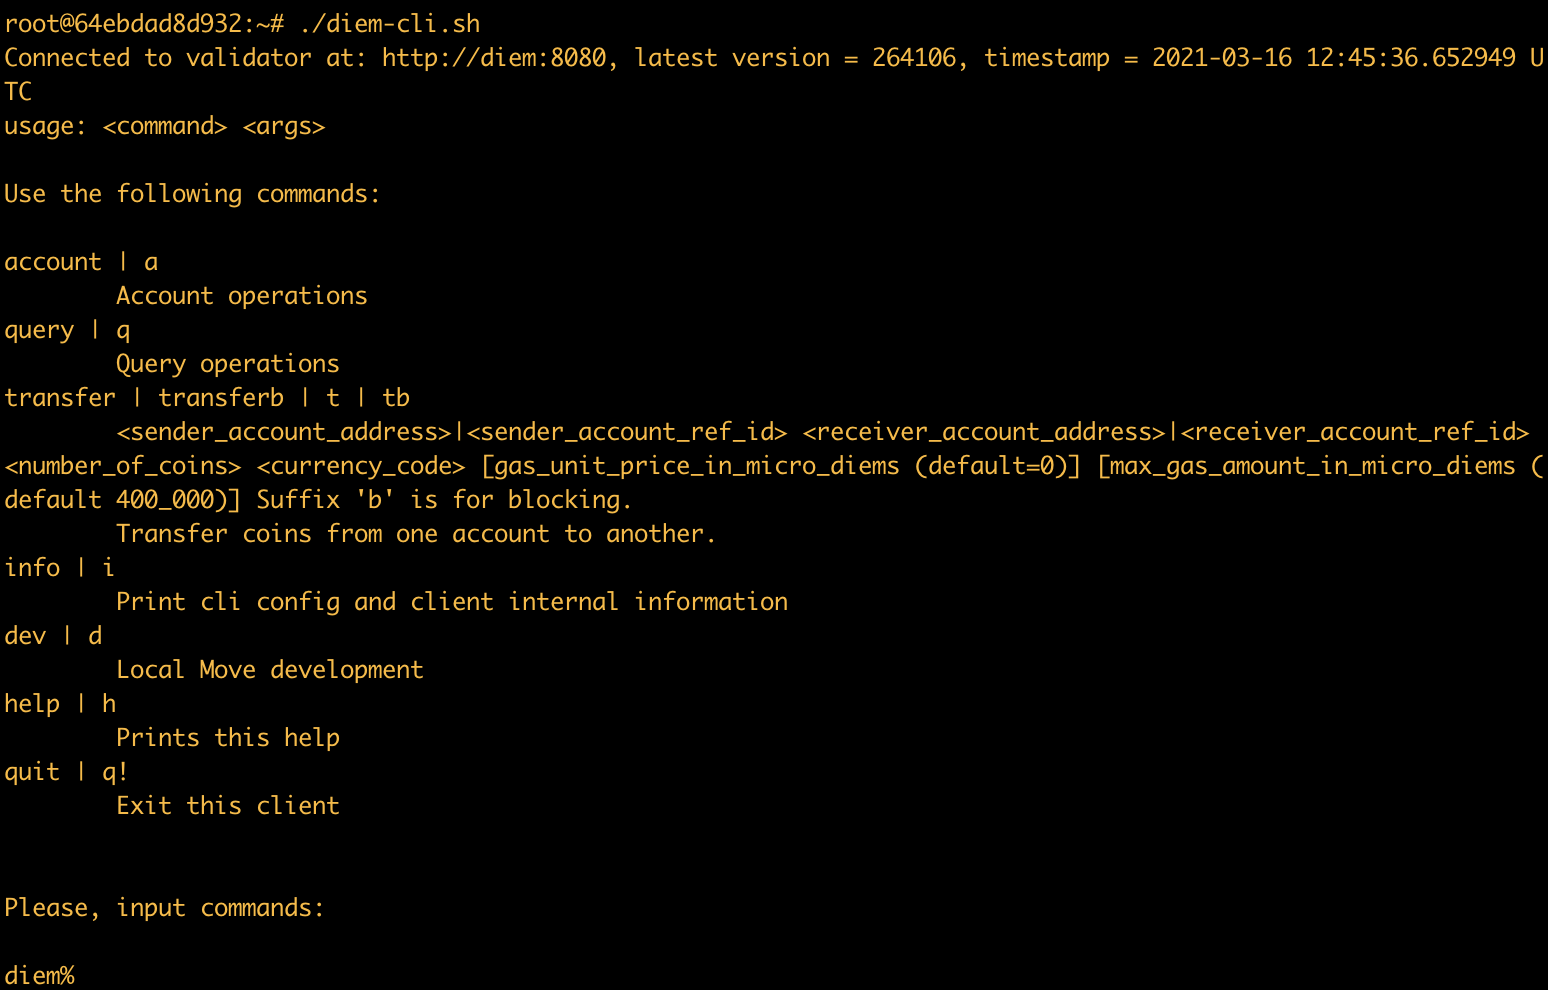
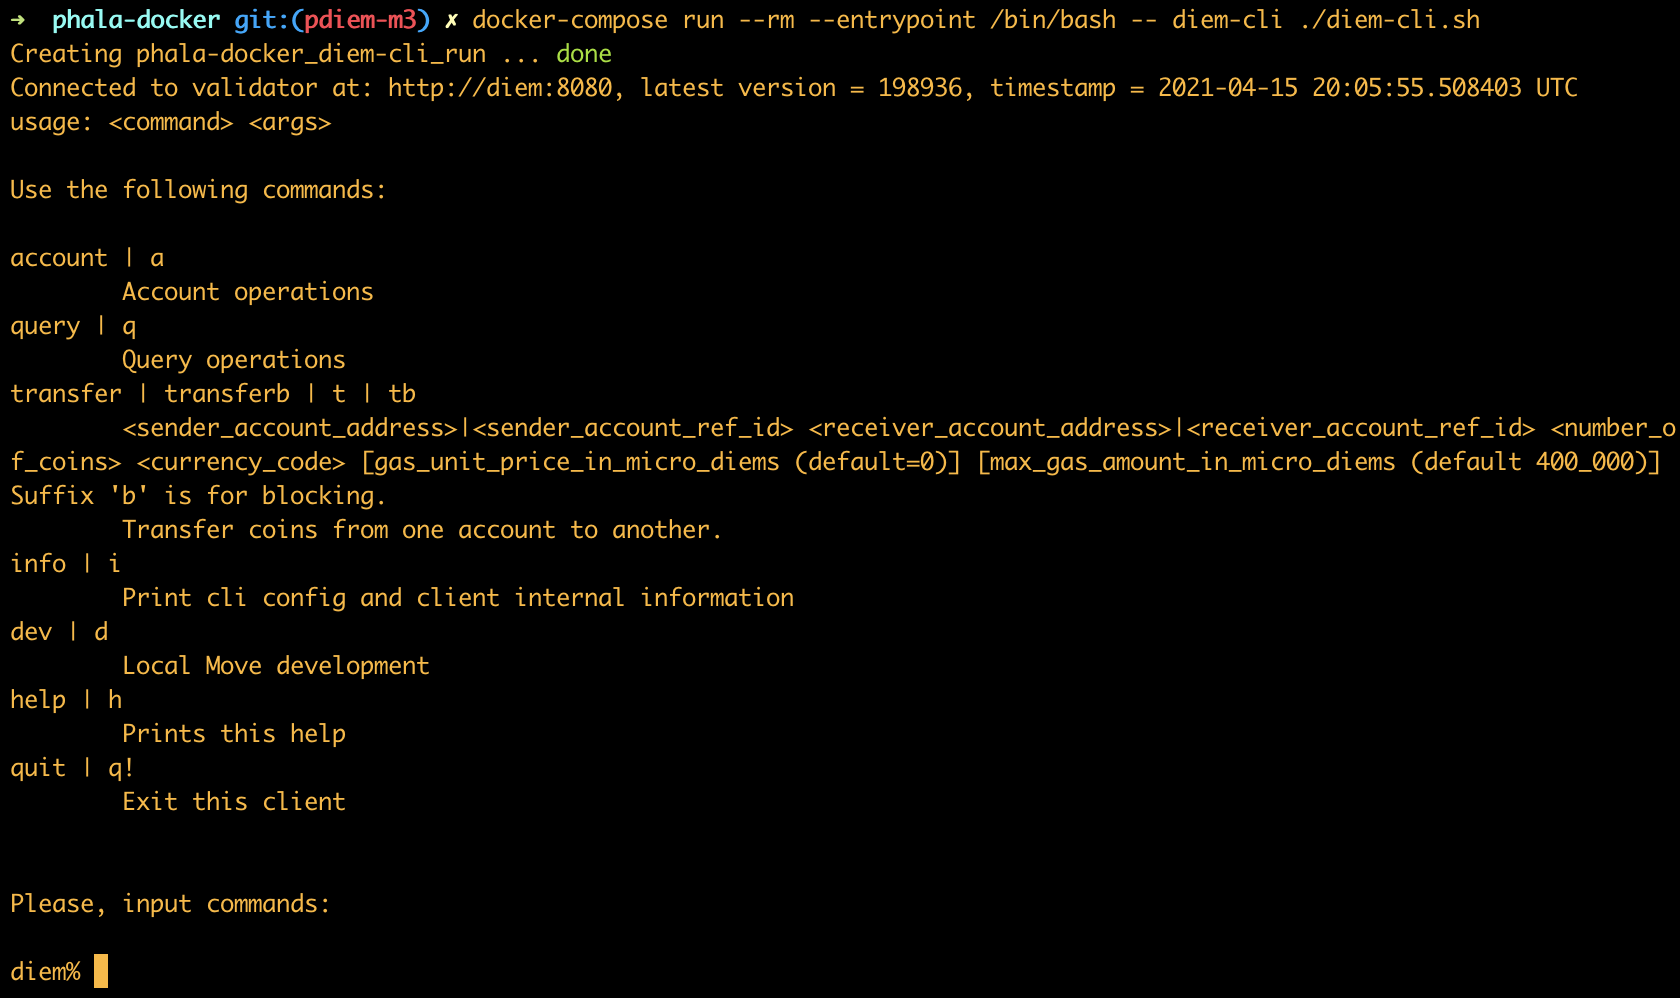
rebuilding site Fri 16 Apr 2021 07:29:22 AM UTC

diff --git a/en-us/docs/pdiem/play-with-pdiem/index.html b/en-us/docs/pdiem/play-with-pdiem/index.html
@@ -12,16 +12,16 @@
 <title>Play with pDiem | Phala Network Wiki</title><meta property="og:title" content="Play with pDiem" />
 <meta property="og:description" content="The pdiem full stack includes:
  A local Diem testnet: diem, diem-cli A Phala Network local testnet with the pdiem contract: phala-node, phala-pruntime, phala-phost A relayer to connect the both networks: pdiem-relayer  With the pdiem full stack running, we are going to send some Diem transactions to the pdiem deposit account, and check if the pdiem contract has received it.
-Create Diem accounts First, start the diem-cli from the same directory:" />
+Create Diem accounts Start the diem-cli from the same directory by:" />
 <meta property="og:type" content="article" />
 <meta property="og:url" content="https://wiki.phala.network/en-us/docs/pdiem/play-with-pdiem/" />
 <meta property="og:site_name" content="Phala Network Wiki" />
 <meta itemprop="name" content="Play with pDiem">
 <meta itemprop="description" content="The pdiem full stack includes:
  A local Diem testnet: diem, diem-cli A Phala Network local testnet with the pdiem contract: phala-node, phala-pruntime, phala-phost A relayer to connect the both networks: pdiem-relayer  With the pdiem full stack running, we are going to send some Diem transactions to the pdiem deposit account, and check if the pdiem contract has received it.
-Create Diem accounts First, start the diem-cli from the same directory:">
+Create Diem accounts Start the diem-cli from the same directory by:">
 
-<meta itemprop="wordCount" content="690">
+<meta itemprop="wordCount" content="851">
 
 
 
@@ -30,7 +30,7 @@ Create Diem accounts First, start the diem-cli from the same directory:">
 <meta name="twitter:title" content="Play with pDiem"/>
 <meta name="twitter:description" content="The pdiem full stack includes:
  A local Diem testnet: diem, diem-cli A Phala Network local testnet with the pdiem contract: phala-node, phala-pruntime, phala-phost A relayer to connect the both networks: pdiem-relayer  With the pdiem full stack running, we are going to send some Diem transactions to the pdiem deposit account, and check if the pdiem contract has received it.
-Create Diem accounts First, start the diem-cli from the same directory:"/>
+Create Diem accounts Start the diem-cli from the same directory by:"/>
 
 
 <link rel="stylesheet" href="https://wiki.phala.network/css/styles.51a94ee6f045627ad59db60801f5337e99870a05ce0773970281c0a239aa562b815158c30b1589cf2356249a382dfd3d049389ce9f946fbf3bfb30bdd316c4cc.css" integrity="sha512-UalO5vBFYnrVnbYIAfUzfpmHCgXOB3OXAoHAojmqViuBUVjDCxWJzyNWJJo4Lf09BJOJzp&#43;Ub787&#43;zC90xbEzA==">
@@ -39,7 +39,7 @@ Create Diem accounts First, start the diem-cli from the same directory:"/>
 
   <meta name="description" content="The pdiem full stack includes:
  A local Diem testnet: diem, diem-cli A Phala Network local testnet with the pdiem contract: phala-node, phala-pruntime, phala-phost A relayer to connect the both networks: pdiem-relayer  With the pdiem full stack running, we are going to send some Diem transactions to the pdiem deposit account, and check if the pdiem contract has received it.
-Create Diem accounts First, start the diem-cli from the same directory:">
+Create Diem accounts Start the diem-cli from the same directory by:">
 
 
 
@@ -484,10 +484,8 @@ Create Diem accounts First, start the diem-cli from the same directory:">
 </ul>
 <p>With the pdiem full stack running, we are going to send some Diem transactions to the pdiem deposit account, and check if the pdiem contract has received it.</p>
 <h2 id="create-diem-accounts">Create Diem accounts</h2>
-<p>First, start the diem-cli from the same directory:</p>
-<div class="highlight"><pre class="chroma"><code class="language-bash" data-lang="bash"><span class="ln">1</span>docker-compose run --rm --entrypoint /bin/bash -- diem-cli
-</code></pre></div><p>It spawns a shell at <code>/root</code>. Then enter the Diem console inside the shell by:</p>
-<div class="highlight"><pre class="chroma"><code class="language-bash" data-lang="bash"><span class="ln">1</span>./diem-cli.sh
+<p>Start the diem-cli from the same directory by:</p>
+<div class="highlight"><pre class="chroma"><code class="language-bash" data-lang="bash"><span class="ln">1</span>docker-compose run --rm --entrypoint /bin/bash -- diem-cli ./diem-cli.sh
 </code></pre></div><p><img src="/images/docs/pdiem/diem-cli.png" alt=""></p>
 <p>Then run the following commands to prepare the accounts:</p>
 <div class="highlight"><pre class="chroma"><code class="language-bash" data-lang="bash"><span class="ln">1</span><span class="c1"># Create two accounts</span>
@@ -515,25 +513,38 @@ Create Diem accounts First, start the diem-cli from the same directory:">
 <div class="highlight"><pre class="chroma"><code class="language-bash" data-lang="bash"><span class="ln">1</span>./phala-console.sh pdiem-tx
 </code></pre></div><h2 id="prepare-subaccounts-for-two-way-transfer">Prepare subaccounts for two-way transfer</h2>
 <p>pdiem-m3 uses Diem's subaccount feature to create deposit accounts. Any user can create its Diem deposit subaccount by sending a <code>NewAccount</code> command:</p>
-<div class="highlight"><pre class="chroma"><code class="language-bash" data-lang="bash"><span class="ln">1</span>./phala-console.sh pdiem-new-account <span class="s1">&#39;//Alice&#39;</span>
-</code></pre></div><p>The above command will send <code>Command::NewAccount</code> to the <code>pdiem</code> contract from Substrate &quot;Alice&quot;. You can create as many accounts as you want. It takes 2-3 blocks to process the command. Then you can get a full list of the Diem accounts by a query:</p>
-<div class="highlight"><pre class="chroma"><code class="language-bash" data-lang="bash"><span class="ln">1</span>./phala-console.sh pdiem-accounts
-</code></pre></div><blockquote>
-<p>A screenshot...</p>
-</blockquote>
+<div class="highlight"><pre class="chroma"><code class="language-bash" data-lang="bash"><span class="ln">1</span>./phala-console.sh pdiem-new-account <span class="m">0</span> <span class="s1">&#39;//Bob&#39;</span>
+</code></pre></div><p>The above command will send <code>Command::NewAccount</code> to the <code>pdiem</code> contract from Substrate account &quot;Bob&quot;. You can create as many accounts as you want. It takes 2-3 blocks to process the command.</p>
+
+<div class="tip">
+  The first argument of <code>pdiem-new-account</code> is the sequence id of the new account transaction on Diem. Similar to the other blockchains, Diem also requires every transaction has incremented sequence id. So when creating another new subaccount, run <code>./phala-console.sh pdiem-new-account 1 '//Charlie'</code>.
+</div>
+
+<p>Then you can get a full list of the Diem accounts by a query:</p>
+<div class="highlight"><pre class="chroma"><code class="language-bash" data-lang="bash"><span class="ln">1</span>./phala-console.sh pdiem-balances
+</code></pre></div><p><img src="/images/docs/pdiem/pdiem-balances.png" alt=""></p>
+<p>As shown in the screenshot, Bob just created its deposit Diem address <code>4DB6A10FCEB765C55ADC3751474AE8D1</code>.</p>
 <h2 id="deposit-diem--pdiem">Deposit (diem → pdiem)</h2>
 <p>Get your deposit address from the last step. And now you can deposit some <code>XUS</code> on the Diem side in diem-cli:</p>
-<div class="highlight"><pre class="chroma"><code class="language-bash" data-lang="bash"><span class="ln">1</span>diem% transfer <span class="m">1</span> 0xDEADBEEFDEADBEEFDEADBEEFDEADBEEF <span class="m">10</span> XUS
-</code></pre></div><p>The corss-chain transfer takes around 4-6 blocks to complete. Check the balance by:</p>
+<div class="highlight"><pre class="chroma"><code class="language-bash" data-lang="bash"><span class="ln">1</span>diem% transfer 0x57c76da2e144c0357336ace2f3f8ac9b 0x4DB6A10FCEB765C55ADC3751474AE8D1 <span class="m">10</span> XUS
+</code></pre></div>
+<div class="tip">
+  The transfer command in <code>diem-cli</code> takes the source account and the destination account as the first two arguments. It accepts either two account references (e.g. 0 for <code>account 0</code> in the local wallet), or two hex-encoded addresses. In the example above, <code>0x57c76da2e144c0357336ace2f3f8ac9b</code> is <code>account 1</code> and <code>0x4DB6A10FCEB765C55ADC3751474AE8D1</code> is Bob's the deposit subaccount.
+</div>
+
+<p>The corss-chain transfer takes around 4-6 blocks to complete. Check the balance by:</p>
 <div class="highlight"><pre class="chroma"><code class="language-bash" data-lang="bash"><span class="ln">1</span>./phala-console.sh pdiem-balances
-</code></pre></div><h2 id="withdraw-pdiem--diem">Withdraw (pdiem → diem)</h2>
+</code></pre></div><blockquote>
+<p>In this example, Bob's Diem account will get <code>10 XUS</code>, which is <code>10000000</code> under the <code>free</code> field in the <code>pdiem-balances</code> outputs (6 decimals).</p>
+</blockquote>
+<h2 id="withdraw-pdiem--diem">Withdraw (pdiem → diem)</h2>
 <p>You can withdraw assets from <code>pdiem</code> back to diem by <code>pdiem-withdraw</code>:</p>
-<div class="highlight"><pre class="chroma"><code class="language-bash" data-lang="bash"><span class="ln">1</span>./phala-console.sh pdiem-withdraw 0xDEADBEEFdeadbeefDEADBEEFdeadbeef <span class="s1">&#39;10 XUS&#39;</span> <span class="s1">&#39;//Alice&#39;</span>
+<div class="highlight"><pre class="chroma"><code class="language-bash" data-lang="bash"><span class="ln">1</span>./phala-console.sh pdiem-withdraw 4DB6A10FCEB765C55ADC3751474AE8D1 <span class="s1">&#39;10 XUS&#39;</span> <span class="s1">&#39;//Bob&#39;</span>
 </code></pre></div><p>In the command above the arguments are:</p>
 <ul>
-<li><code>0xDEADBEEFdeadbeefDEADBEEFdeadbeef</code>: The Diem address to withdraw</li>
+<li><code>4DB6A10FCEB765C55ADC3751474AE8D1</code>: The Diem address to withdraw</li>
 <li><code>'10 XUS'</code>: The amount of the assets</li>
-<li><code>'//Alice'</code>: The key of the Substrate account to withdraw</li>
+<li><code>'//Bob'</code>: The SURI of the Substrate account private key to withdraw</li>
 </ul>
 
 <div class="tip">
@@ -544,7 +555,8 @@ Create Diem accounts First, start the diem-cli from the same directory:">
 
 <p>You can check your <code>pdiem</code> balance at any point:</p>
 <div class="highlight"><pre class="chroma"><code class="language-bash" data-lang="bash"><span class="ln">1</span>./phala-console.sh pdiem-balances
-</code></pre></div><p>You can still see the withdrawal amount under the &quot;locked&quot; balances until transaction is confimed on Diem.</p>
+</code></pre></div><p><img src="/images/docs/pdiem/withdraw-lock-confirmed.png" alt=""></p>
+<p>You can still see the withdrawal amount under the &quot;locked&quot; balances until transaction is confimed on Diem. The above screenshot has two sides. The left side shows the withdrawal funds was locked and pending confirmation, while the right side shows the locked funds were removed because the outgoing tx is confirmed. Finally the sequence under the deposit account was incremented to 1.</p>
 
     <div class="pager">
   <div class="pager_item prev">
